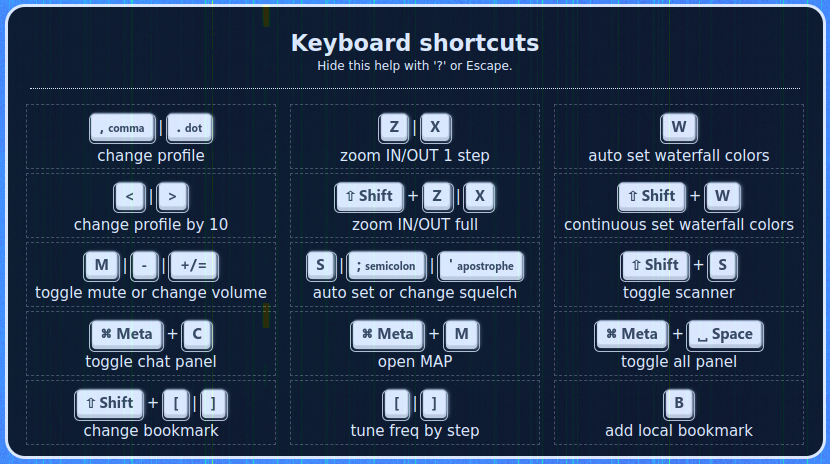
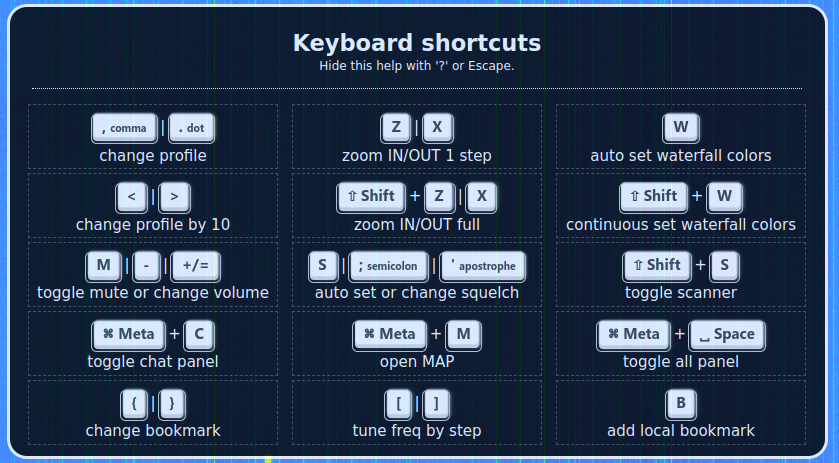
update kbdsc info

diff --git a/receiver/keyboard_shortcuts/keyboard_shortcuts.js b/receiver/keyboard_shortcuts/keyboard_shortcuts.js
@@ -308,7 +308,7 @@ Plugins.keyboard_shortcuts.init = async function () {
       </div>
 
       <div class="ks-item">
-        <div class="ks-item-kbd">${gen_key('Shift')}+${gen_key('[')}|${gen_key(']')}</div>
+        <div class="ks-item-kbd">${gen_key('{')}|${gen_key('}')}</div>
         <div class="ks-item-txt">change bookmark</div>
       </div>
       <div class="ks-item">
